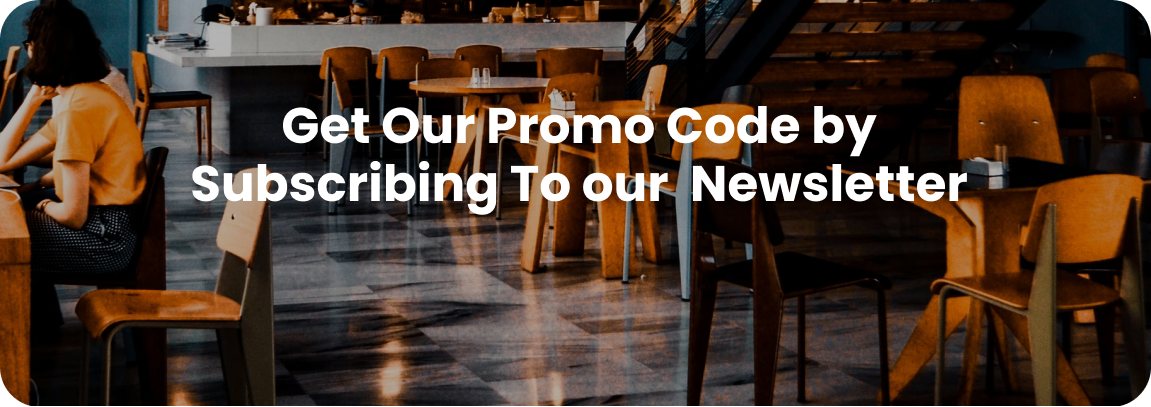
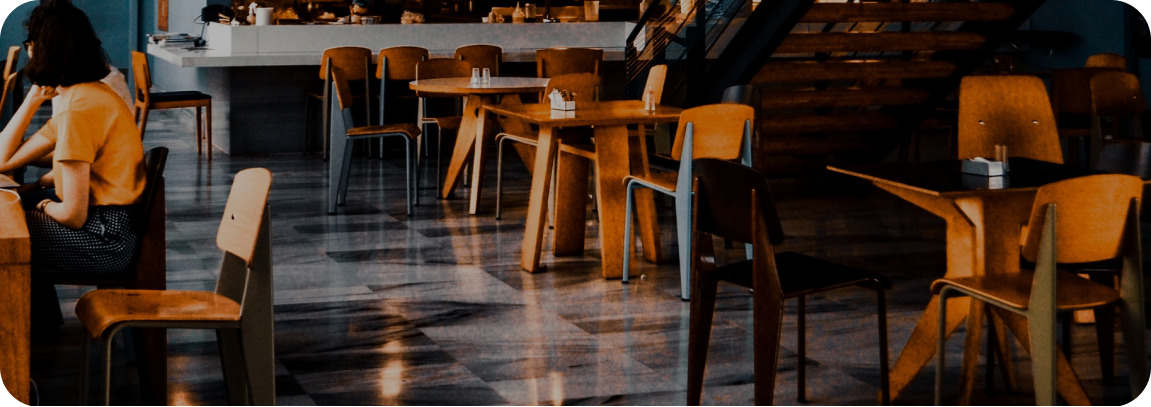
updates

Changed region(s): [[0.152, 0.3833, 0.8514, 0.5307], [0.2433, 0.2654, 0.7602, 0.3833]]

diff --git a/src/app/component/Telephone.jsx b/src/app/component/Telephone.jsx
@@ -4,31 +4,31 @@ const Telephone = () => {
   return (
     <div className="flex justify-center items-center h-screen">
       <div className="relative w-full">
-        <img src="/Rect.png" alt="Rect" className="w-full" />
+        <img src="/Rect.png" alt="Rect" className="w-full " />
         <div className="absolute inset-0 flex justify-between items-center px-64">
           {/* Contenu à gauche de l'image */}
-          <div className="text-left text-white w-1/1 p-13">
-            <h2 className="text-5xl font-bold mb-10 text-orange-500">Try our app now</h2>
+          <div className="text-left text-white w-1/1 p-22">
+            <h2 className="text-6xl  font-bold mb-5 text-orange-500">Try our app now</h2>
            <div>
           
-            <p className="text-2xl">Discover the most convenience in food ordering. Explore irresistible discounts and step into a realm of delightful culinary delights.</p>
+            <p className="text-3xl p-1 py-10 ">Discover the most convenience in food ordering. Explore irresistible discounts and step into a realm of delightful culinary delights.</p>
             <div className="flex items-center">
-  <p className="mr-1 p-3">Available on:</p></div>
+  <p className=" text-2xl  font-semibold">Available on</p></div>
             <div className="flex">
-    <button className="flex items-center   px-4 py-1 bg-orange-500 text-white mr-7 font-bold"style={{borderRadius:'20px'}}>
-      <img src="/play.png" alt="Logo 1" className="w-10 mr-2" />
-      Play Store
+    <button className="flex items-center   w-52 px-4 py-1 bg-orange-500 text-white mr-7 font-bold"style={{borderRadius:'20px'}}>
+      <img src="/play.png" alt="Logo 1" className="w-5 mr-5" />
+      PlayStore
     </button>
-    <button className="flex items-center  px-4 py-2 bg-orange-500 text-white font-bold ml-5"style={{borderRadius:'20px'}}>
-      <img src="/app.png" alt="Logo 2" className="w-13 mr-2" />
-      App Store 
+    <button className="flex items-center  w-52 px-4 py-2 bg-orange-500 text-white font-bold ml-5"style={{borderRadius:'20px'}}>
+      <img src="/app.png" alt="Logo 2" className="w-5 mr-5" />
+      AppStore 
     </button>
     </div>
     </div>
             
           </div>
           {/* Image au centre */}
-          <img src="/tele.png" alt="Telephone" className="py-auto" style={{ width: '200%',paddingBottom:'15%'  }} />
+          <img src="/tele.png" alt="Telephone" className="py-auto" style={{ width: '350%',paddingBottom:'20%'  }} />
         </div>
       </div>
     </div>

diff --git a/src/app/component/Subscribe.jsx b/src/app/component/Subscribe.jsx
@@ -1,0 +1,49 @@
+
+// import React from 'react';
+
+// const Subscribe = () => {
+//   return (
+//     <div >
+//       {/* Image */}
+//       <img src="/Mark.jpg" alt="Votre Image" className="w-full h-auto" />
+
+//       {/* Contenu au centre */}
+//       {/* <div className="inset-0 flex items-center justify-center"> */}
+//         {/* Conteneur du contenu */}
+//         <div className="text-center text-white bg-opacity-70 bg-black p-8 rounded-lg">
+//           {/* Grand titre avec image en fond */}
+//           <h1
+//             className="text-4xl font-bold mb-6"
+//             style={{ backgroundImage: `url('/Mark.jpg')`, backgroundSize: 'cover', backgroundPosition: 'center' }}
+//           >
+//             Get Our Promo Code by Subscribing To our Newsletter
+//           </h1>
+
+//           {/* Formulaire avec image en fond */}
+//           <form
+//             className="flex flex-col items-center"
+//             style={{ backgroundImage: `url('/Mark.jpg')`, backgroundSize: 'cover', backgroundPosition: 'center' }}
+//           >
+//             {/* Champ d'adresse e-mail */}
+//             <input
+//               type="email"
+//               placeholder="Adresse Email"
+//               className="px-4 py-2 mb-4 w-full max-w-xs border border-gray-300 rounded-lg focus:outline-none focus:border-orange-500"
+//             />
+
+//             {/* Bouton Subscribe */}
+//             <button
+//               type="submit"
+//               className="px-6 py-3 bg-orange-500 text-white rounded-lg font-semibold shadow-md hover:bg-orange-600 focus:outline-none focus:ring-2 focus:ring-orange-500 focus:ring-offset-2"
+//             >
+//               Subscribe
+//             </button>
+//           </form>
+//         </div>
+//       </div>
+//     </div>
+//   );
+// };
+
+// export default Subscribe;
+

diff --git a/src/app/component/Client1.jsx b/src/app/component/Client1.jsx
@@ -1,0 +1,18 @@
+import React from 'react';
+import Head from 'next/head';
+
+
+const Client1 = () => {
+  return (
+    <div className="flex justify-center flex-col items-center">
+      <Head>
+        <title>TESTIMONIALS</title>
+      </Head>
+      <p className="text-center text-orange-500 text-3xl mb-6">TESTIMONIALS</p>
+      <p className="text-center text-purple-900 text-6xl font-bold py-2 px-4 mb-4">Our Client Reviews</p>
+      <img src="/client1.png" alt="Logo" className=" w-full" />
+    </div>
+  );
+}
+
+export default Client1;

diff --git a/src/app/aboutus/page.jsx b/src/app/aboutus/page.jsx
@@ -1,6 +1,8 @@
 import React from 'react';
 import Rectangle from '../component/Rectangle';
-
+import Delivery from '../component/Delivery';
+import Telephone from '../component/Telephone';
+import Client1 from '../component/Client1';
 const AboutUs = () => {
     return (
         <div> 
@@ -34,7 +36,9 @@ const AboutUs = () => {
 <div className="flex justify-center" >
       <img src="/adham.png" alt="Logo" className=" py-20 top-10 " />
     </div>
-
+<div><Delivery/></div>
+<div><Telephone/></div>
+<div><Client1/></div>
 
 </div>
 

diff --git a/src/app/restaurentpage/page.jsx b/src/app/restaurentpage/page.jsx
@@ -1,0 +1,14 @@
+import React from 'react';
+
+const Resto = () => {
+  return (
+    <div className="relative w-full flex justify-center">
+      <img src="/resto1.png" alt="restaurant" className="w-full" />
+      <div className="absolute inset-0 flex justify-center items-center" style={{ backgroundColor: 'rgba(52, 23, 72, 0.5)' }}>
+      <h1 className="text-white text-">Home &gt; Restaurents</h1>
+      </div>
+    </div>
+  );
+}
+
+export default Resto;

diff --git a/src/app/page.js b/src/app/page.js
@@ -9,7 +9,6 @@ import Restaurants from './component/Restaurents';
 import Delivery from './component/Delivery';
 import Telephone from './component/Telephone';
 import Client from './component/Client';
-import Mask from './component/mask';
 
 const Page = () => {
   return (
@@ -22,7 +21,6 @@ const Page = () => {
        <Delivery/>
        <Telephone/>
        <Client/>
-       <Mask/>
     
 
     </div>

diff --git a/src/app/component/styles.css b/src/app/component/styles.css
@@ -1,0 +1,23 @@
+.swiper {
+    width: 100%;
+    height: 100%;
+  }
+  
+  .swiper-slide {
+    text-align: center;
+    font-size: 18px;
+    background: #fff;
+  
+    /* Center slide text vertically */
+    display: flex;
+    justify-content: center;
+    align-items: center;
+  }
+  
+  .swiper-slide img {
+    display: block;
+    width: 100%;
+    height: 100%;
+    object-fit: cover;
+  }
+  

diff --git a/src/app/component/Restaurents.jsx b/src/app/component/Restaurents.jsx
@@ -126,7 +126,7 @@ const Restaurants = () => {
 
       <div className="flex justify-center mt-8 p-24 ">
         <button className=" py-8 px-6 text-orange-500  text-xl font-bold " style={{ background: 'rgba(255, 242, 232, 1)' ,borderRadius:'25px' }}>
-          Explore more places  
+          Explore more places   &gt;
         </button>
       </div>
     </div>

diff --git a/src/app/component/Navbar.js b/src/app/component/Navbar.js
@@ -97,7 +97,7 @@ const Navbar = () => {
         <Link href="/aboutus">
           <span style={{ ...spanStyle, ...linkStyle }}>About Us</span>
         </Link>
-        <Link href="/restaurants">
+        <Link href="/restaurentpage">
           <span style={{ ...spanStyle, ...linkStyle }}>Restaurants</span>
         </Link>
         <Link href="/contact">

diff --git a/src/app/component/Footer.js b/src/app/component/Footer.js
@@ -36,7 +36,7 @@ const Footer = () => {
                 className="text-white px-3 py-2 rounded-l mb-2"
                 style={{ background: 'rgba(226, 112, 61, 1)'}}
               >
-                Send
+                 &gt;
               </button>
             </div>
           </div>

diff --git a/src/app/component/HeadingPage.jsx b/src/app/component/HeadingPage.jsx
@@ -1,4 +1,3 @@
-import Head from 'next/head';
 import React from 'react';
 
 const HeadingPage = () => {
@@ -50,3 +49,4 @@ Dining Experience</h1>
 };
 
 export default HeadingPage;
+
